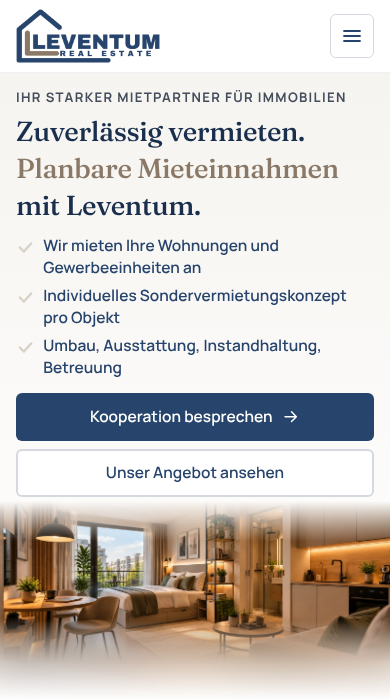
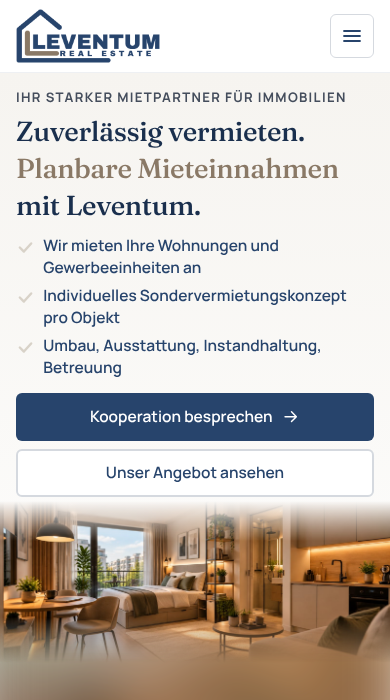
Hero füllt auch lange Displays (Foto über die Bildschirmkante, aufgehellter Auslauf), Expertise-Überschrift 'um Ihre Immobilie'
Claude-Session: https://claude.ai/code/session_01KEcscF8ABiEHPf9rzLQ9PG

Changed region(s): [[0.0, 0.9, 1.0, 1.0]]

diff --git a/css/sections.css b/css/sections.css
@@ -445,10 +445,11 @@
 
 /* Hero bis 1100 px: füllt die erste Bildschirmhöhe. Das Foto bleibt vollständig; darunter läuft es unscharf aus. */
 @media (max-width: 1100px) {
-  .hero { min-height: calc(100vh - var(--header-h)); min-height: calc(100svh - var(--header-h)); display: flex; flex-direction: column; }
+  .hero { min-height: calc(100vh - var(--header-h) + 100px); min-height: calc(100lvh - var(--header-h) + 100px); display: flex; flex-direction: column; }
   .hero > .hero-grid { flex: 1; grid-template-rows: auto 1fr; }
   .hero-visual { align-self: stretch; min-height: calc(100vw * 667 / 1600); }
   .hero-figure { position: absolute; inset: 0; aspect-ratio: auto; -webkit-mask-image: linear-gradient(to bottom, transparent 0, #000 40px, #000 calc(100% - 80px), transparent 100%); mask-image: linear-gradient(to bottom, transparent 0, #000 40px, #000 calc(100% - 80px), transparent 100%); }
   .hero-figure::before { content: ""; position: absolute; inset: -24px; background: url("../assets/img/hero-wohnung.jpg") 50% 100% / cover no-repeat; filter: blur(30px) saturate(1.05); opacity: 0.85; }
+  .hero-figure::after { content: ""; position: absolute; inset: 0; background: linear-gradient(to bottom, transparent 240px, rgba(246, 244, 240, 0.8) 100%); pointer-events: none; }
   .hero-figure img { position: absolute; top: 0; left: 0; width: 100%; height: auto; aspect-ratio: 1600 / 667; -webkit-mask-image: linear-gradient(to bottom, #000 72%, transparent 100%); mask-image: linear-gradient(to bottom, #000 72%, transparent 100%); }
 }

diff --git a/index.html b/index.html
@@ -29,7 +29,7 @@
   <link rel="stylesheet" href="css/tokens.css?v=89aeff11">
   <link rel="stylesheet" href="css/base.css?v=f26ed30c">
   <link rel="stylesheet" href="css/components.css?v=ea470df2">
-  <link rel="stylesheet" href="css/sections.css?v=f89c17c0">
+  <link rel="stylesheet" href="css/sections.css?v=a0530cd1">
   <script>document.documentElement.classList.add('js');</script>
 </head>
 <body>
@@ -224,7 +224,7 @@
         </figure>
         <div>
           <p class="eyebrow">Unsere Expertise</p>
-          <h2 id="expertise-title"><span class="ln-block">Mehr als Vermietung –</span> <span class="ln-block">wir kümmern uns um die Immobilie.</span></h2>
+          <h2 id="expertise-title"><span class="ln-block">Mehr als Vermietung –</span> <span class="ln-block">wir kümmern uns um Ihre&nbsp;Immobilie.</span></h2>
           <p class="lead-dark">Handwerkliche Erfahrung, klar organisiert.</p>
           <ul class="service-list">
             <li>

diff --git a/datenschutz.html b/datenschutz.html
@@ -11,7 +11,7 @@
   <link rel="stylesheet" href="css/tokens.css?v=89aeff11">
   <link rel="stylesheet" href="css/base.css?v=f26ed30c">
   <link rel="stylesheet" href="css/components.css?v=ea470df2">
-  <link rel="stylesheet" href="css/sections.css?v=f89c17c0">
+  <link rel="stylesheet" href="css/sections.css?v=a0530cd1">
 </head>
 <body>
   <header class="site-header"><div class="container header-inner">

diff --git a/impressum.html b/impressum.html
@@ -11,7 +11,7 @@
   <link rel="stylesheet" href="css/tokens.css?v=89aeff11">
   <link rel="stylesheet" href="css/base.css?v=f26ed30c">
   <link rel="stylesheet" href="css/components.css?v=ea470df2">
-  <link rel="stylesheet" href="css/sections.css?v=f89c17c0">
+  <link rel="stylesheet" href="css/sections.css?v=a0530cd1">
 </head>
 <body>
   <header class="site-header"><div class="container header-inner">
